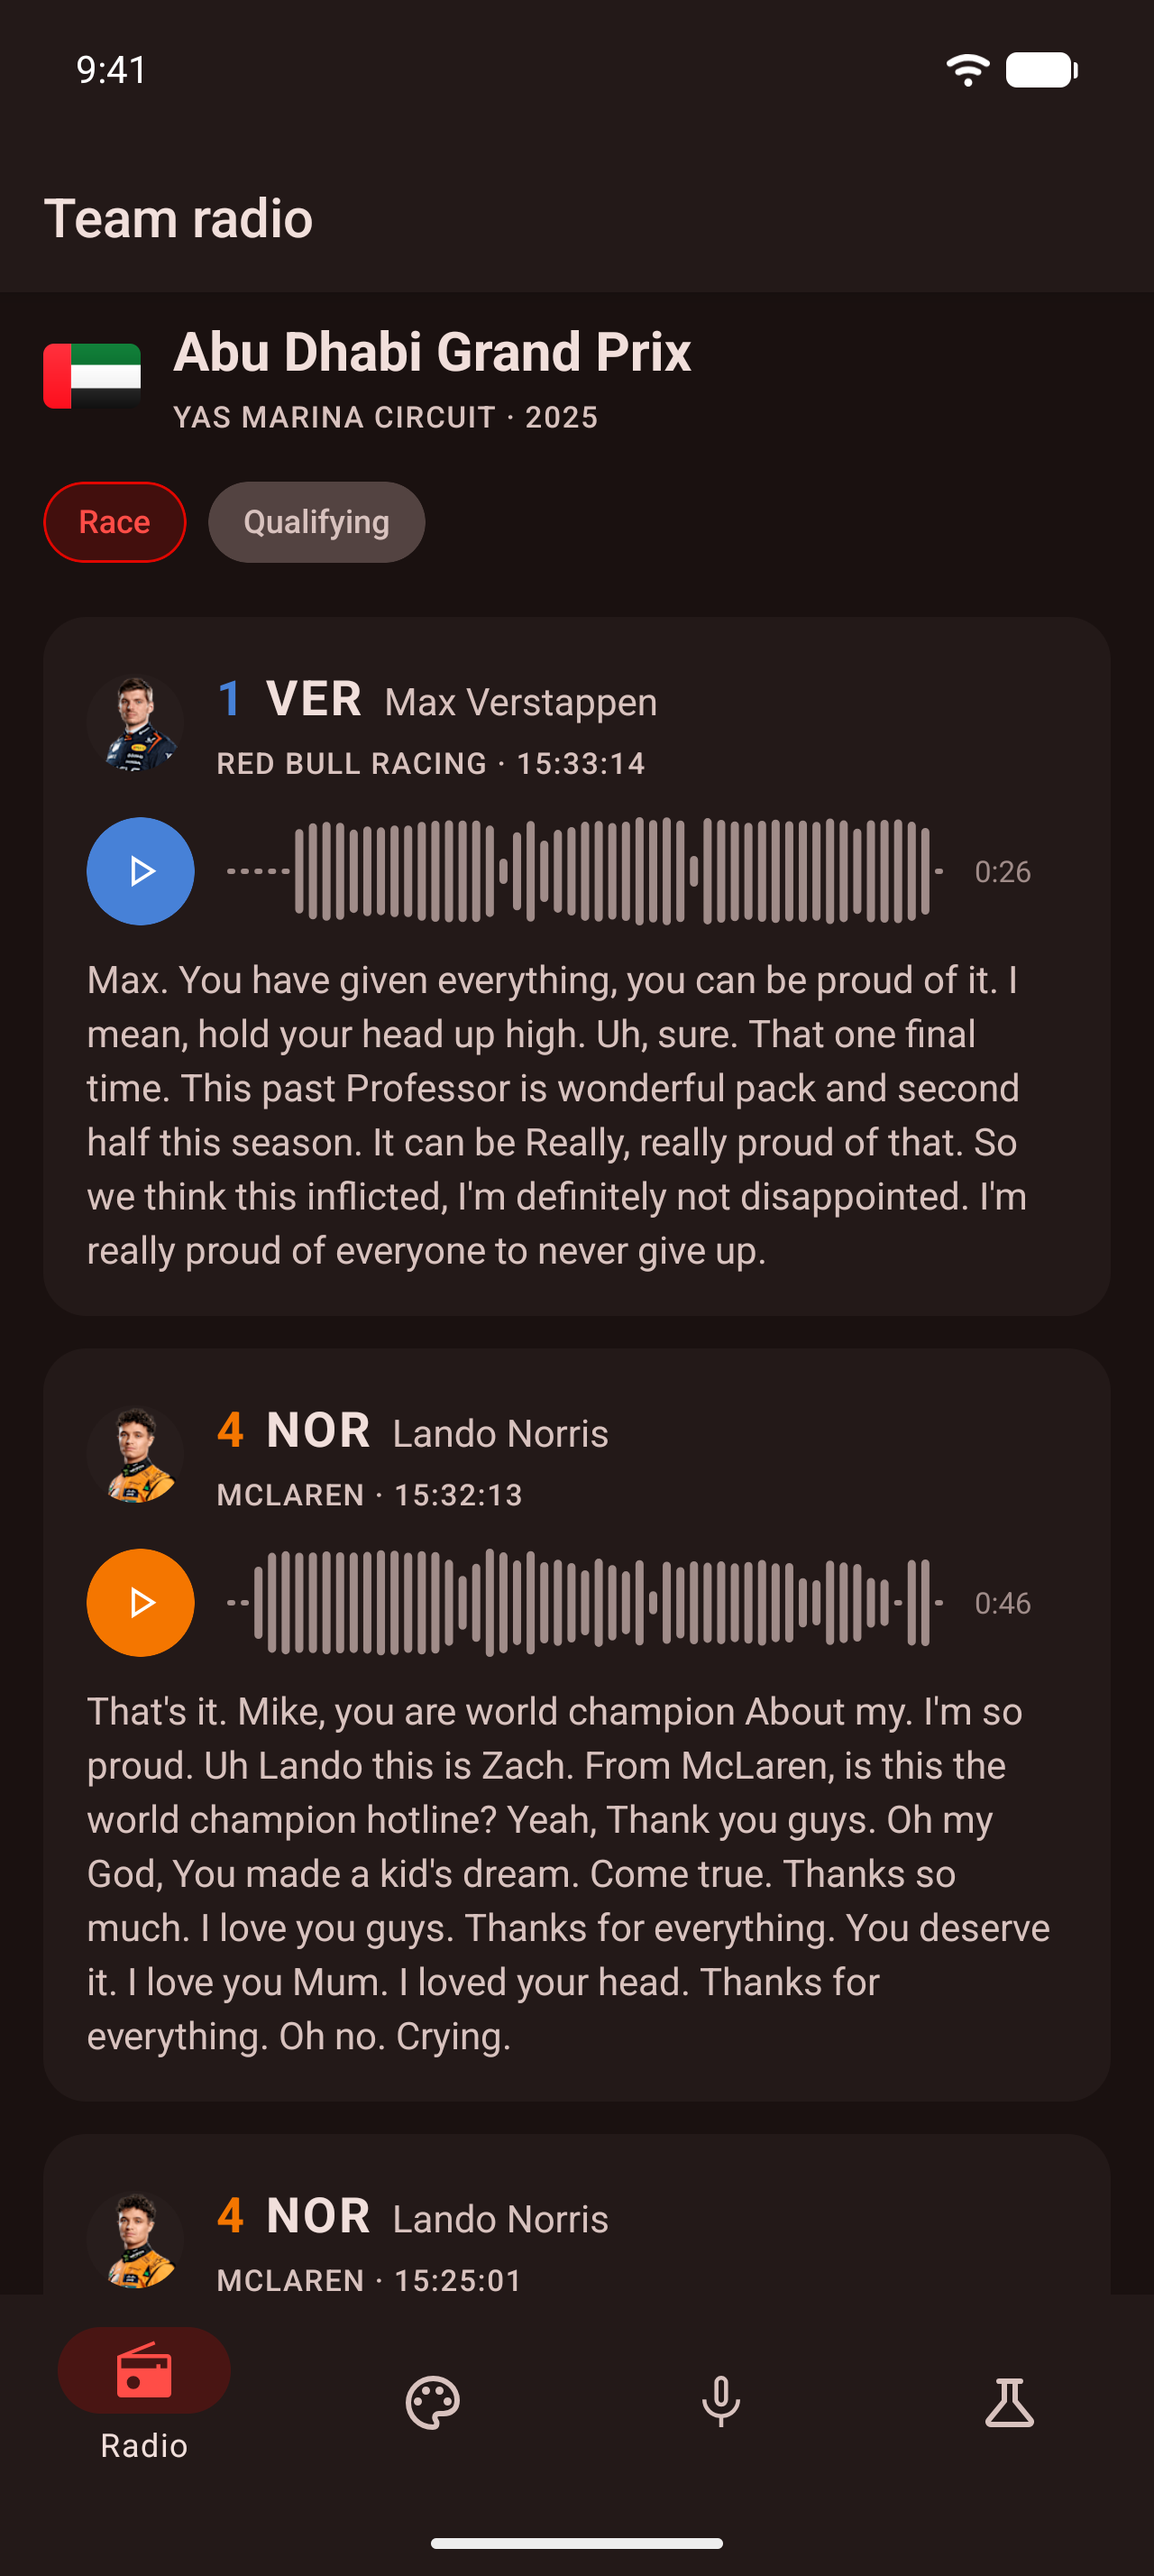
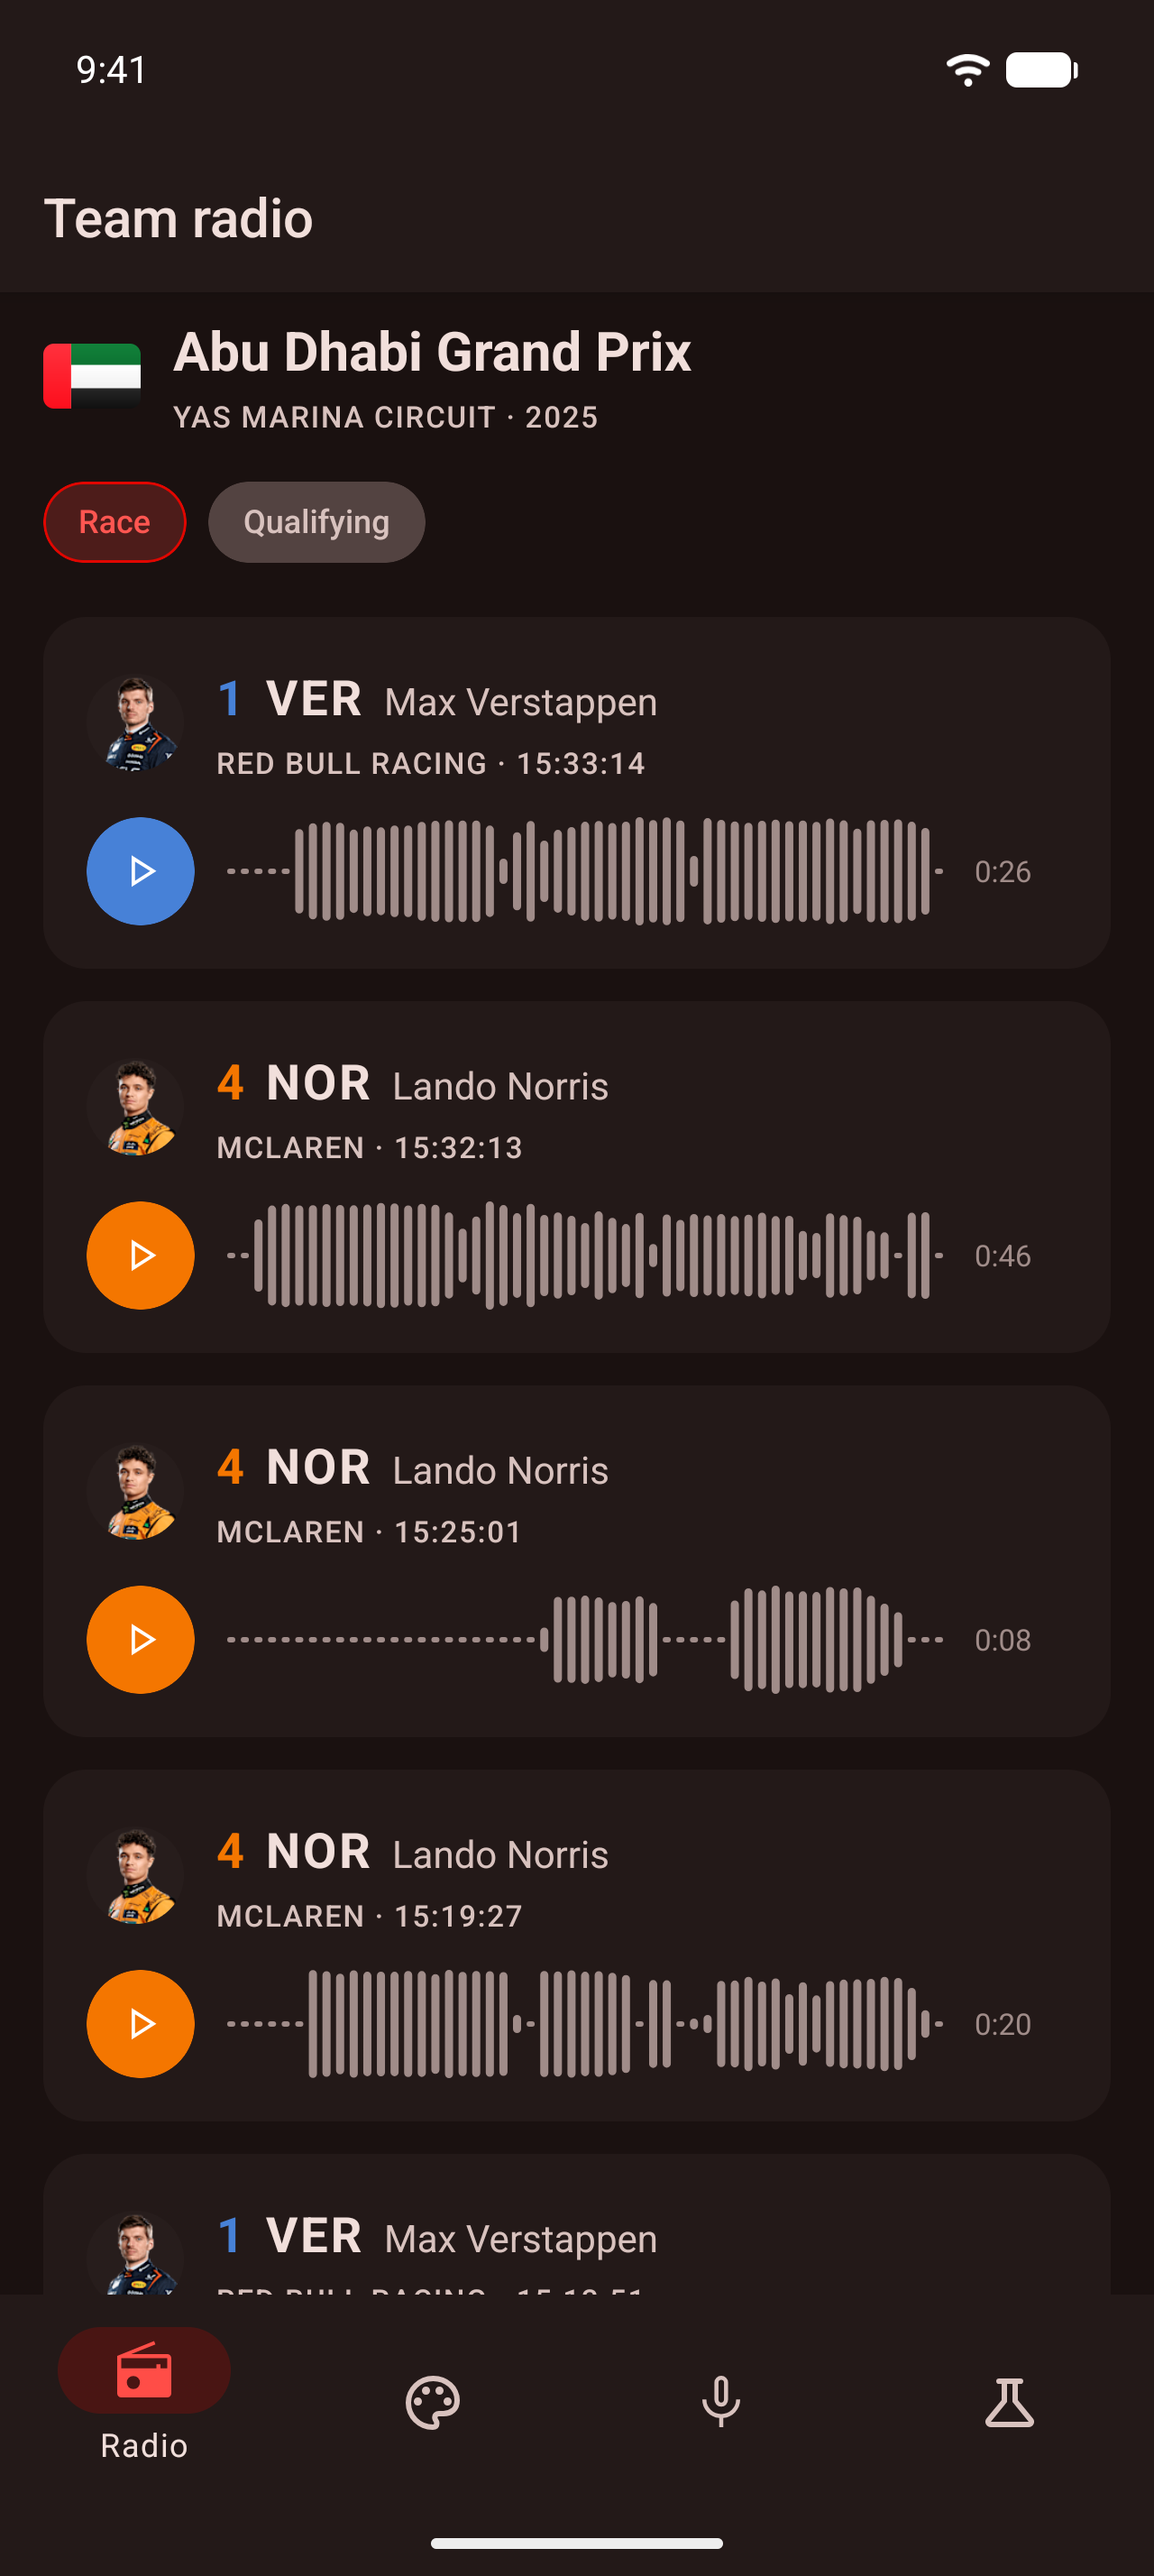
docs: README screenshot of the example on Android with the waveforms alone
The Android shot had each message's words under its waveform, transcribed by
expo-speech, while the iOS one had none: an iOS simulator has no speech models.
The example takes `?words=0` (the `captureWords` launch argument on iOS) to
leave the words out, nothing transcribed and no word marks, and the Android
shot is taken again with it, so both show the same thing: the waveforms. The
words are expo-speech's to show.

Changed region(s): [[0.0625, 0.3739, 0.9062, 0.8102], [0.1875, 0.8414, 0.5312, 0.9037], [0.0938, 0.8414, 0.1562, 0.9037]]

diff --git a/apps/example/src/radio/radio-card.tsx b/apps/example/src/radio/radio-card.tsx
@@ -21,6 +21,8 @@ type RadioCardProps = {
   active: boolean
   onPlay: (clip: RadioClip) => void
   onSeek: (clip: RadioClip, time: number) => void
+  /** Off, the card is its waveform alone: nothing transcribed, no word marks, no words. */
+  words: boolean
 }
 
 /** The time under the playhead while the card plays, its length otherwise. */
@@ -42,11 +44,14 @@ const ElapsedText = ({seconds}: {seconds: number}) => (
  * colour as it plays, a tick on the track where every word starts (transcribed on the device by expo-speech), and the
  * words themselves, lit as they are said. Drag the waveform to scrub, or tap it to jump.
  */
-export const RadioCard = memo(({active, clip, onPlay, onSeek, player, transcriber}: RadioCardProps) => {
+export const RadioCard = memo(({active, clip, onPlay, onSeek, player, transcriber, words}: RadioCardProps) => {
   const theme = useAppTheme()
   // The words are a bonus here: a message the device cannot transcribe (an iOS simulator has no speech models) is its
   // waveform alone.
-  const {progress, progressPhase, state, transcript} = useTranscribe(transcriber, clip.url, {cacheKey: clip.url})
+  const {progress, progressPhase, state, transcript} = useTranscribe(transcriber, clip.url, {
+    cacheKey: clip.url,
+    enabled: words,
+  })
   const playback = useWaveformPlayback(active ? player : null)
   const {wordIndex} = useTranscriptPlayback(transcript, active ? player : null)
   const driver = clip.driver
@@ -122,27 +127,29 @@ export const RadioCard = memo(({active, clip, onPlay, onSeek, player, transcribe
         )}
       </Box>
 
-      <Reveal
-        pending={
-          <Caption color="content.tertiary">
-            {progressPhase === 'installing'
-              ? `Installing the English model ${Math.round(progress * 100)} %`
-              : progressPhase === 'downloading'
-                ? `Downloading ${Math.round(progress * 100)} %`
-                : 'Transcribing'}
-          </Caption>
-        }
-        ready={Boolean(transcript.text) || state === 'failed' || state === 'completed' || state === 'cancelled'}
-      >
-        {transcript.text ? (
-          <Karaoke
-            activeColor="content.accent"
-            following={active || scrub !== null}
-            transcript={transcript}
-            wordIndex={litWord}
-          />
-        ) : null}
-      </Reveal>
+      {words ? (
+        <Reveal
+          pending={
+            <Caption color="content.tertiary">
+              {progressPhase === 'installing'
+                ? `Installing the English model ${Math.round(progress * 100)} %`
+                : progressPhase === 'downloading'
+                  ? `Downloading ${Math.round(progress * 100)} %`
+                  : 'Transcribing'}
+            </Caption>
+          }
+          ready={Boolean(transcript.text) || state === 'failed' || state === 'completed' || state === 'cancelled'}
+        >
+          {transcript.text ? (
+            <Karaoke
+              activeColor="content.accent"
+              following={active || scrub !== null}
+              transcript={transcript}
+              wordIndex={litWord}
+            />
+          ) : null}
+        </Reveal>
+      ) : null}
     </Box>
   )
 })

diff --git a/apps/example/src/radio/radio-screen.tsx b/apps/example/src/radio/radio-screen.tsx
@@ -80,9 +80,15 @@ export const RadioScreen = () => {
     [player]
   )
 
+  const params = useLocalSearchParams<{play?: string; words?: string}>()
+
+  // `?words=0` (or the `captureWords` launch argument) leaves the words out and the waveforms alone: the README's
+  // captures, the same on both platforms, as an iOS simulator has no speech models to transcribe with anyway.
+  const words = (params.words ?? capture.words) !== '0'
+
   // `?play=1` (or the `capturePlay` launch argument) plays the session's second message: how the captures start
   // playback.
-  const play = useLocalSearchParams<{play?: string}>().play ?? capture.play
+  const play = params.play ?? capture.play
   useEffect(() => {
     const clip = play === undefined ? undefined : clips[Number(play)]
     if (clip) {
@@ -135,6 +141,7 @@ export const RadioScreen = () => {
           onSeek={onSeek}
           player={player}
           transcriber={transcriber}
+          words={words}
         />
       )}
       testID="radio"

diff --git a/apps/example/src/capture.ts b/apps/example/src/capture.ts
@@ -5,10 +5,11 @@ import {Platform, Settings} from 'react-native'
  * (`xcrun simctl launch <device> <bundle id> -capturePlay 1 -captureRoute /styles`). The iOS 27 simulator takes no
  * scripted taps, and a link from outside asks before it opens. Android takes the `?play=` link and taps.
  */
-export const capture: {play?: string; route?: string} =
+export const capture: {play?: string; route?: string; words?: string} =
   Platform.OS === 'ios'
     ? {
         play: Settings.get('capturePlay') as string | undefined,
         route: Settings.get('captureRoute') as string | undefined,
+        words: Settings.get('captureWords') as string | undefined,
       }
     : {}

diff --git a/apps/example/CLAUDE.md b/apps/example/CLAUDE.md
@@ -35,4 +35,6 @@ Native in Expo's scene delegate instead.
 
 **Captures start playback by link.** The iOS 27 simulator takes no scripted taps (`idb` cannot reach its HID), so
 `waveform-example:///?play=1` plays the selected session's second message, with the app in front (a link from outside asks
-first). Status bar at 9:41 (`xcrun simctl status_bar … override`, Android's demo mode), Release builds.
+first). Status bar at 9:41 (`xcrun simctl status_bar … override`, Android's demo mode), Release builds. The README's
+shots leave the words out, `?words=0` (the `captureWords` launch argument on iOS): an iOS simulator transcribes
+nothing, so only the waveforms alone look the same on both platforms, and the words are expo-speech's to show.
